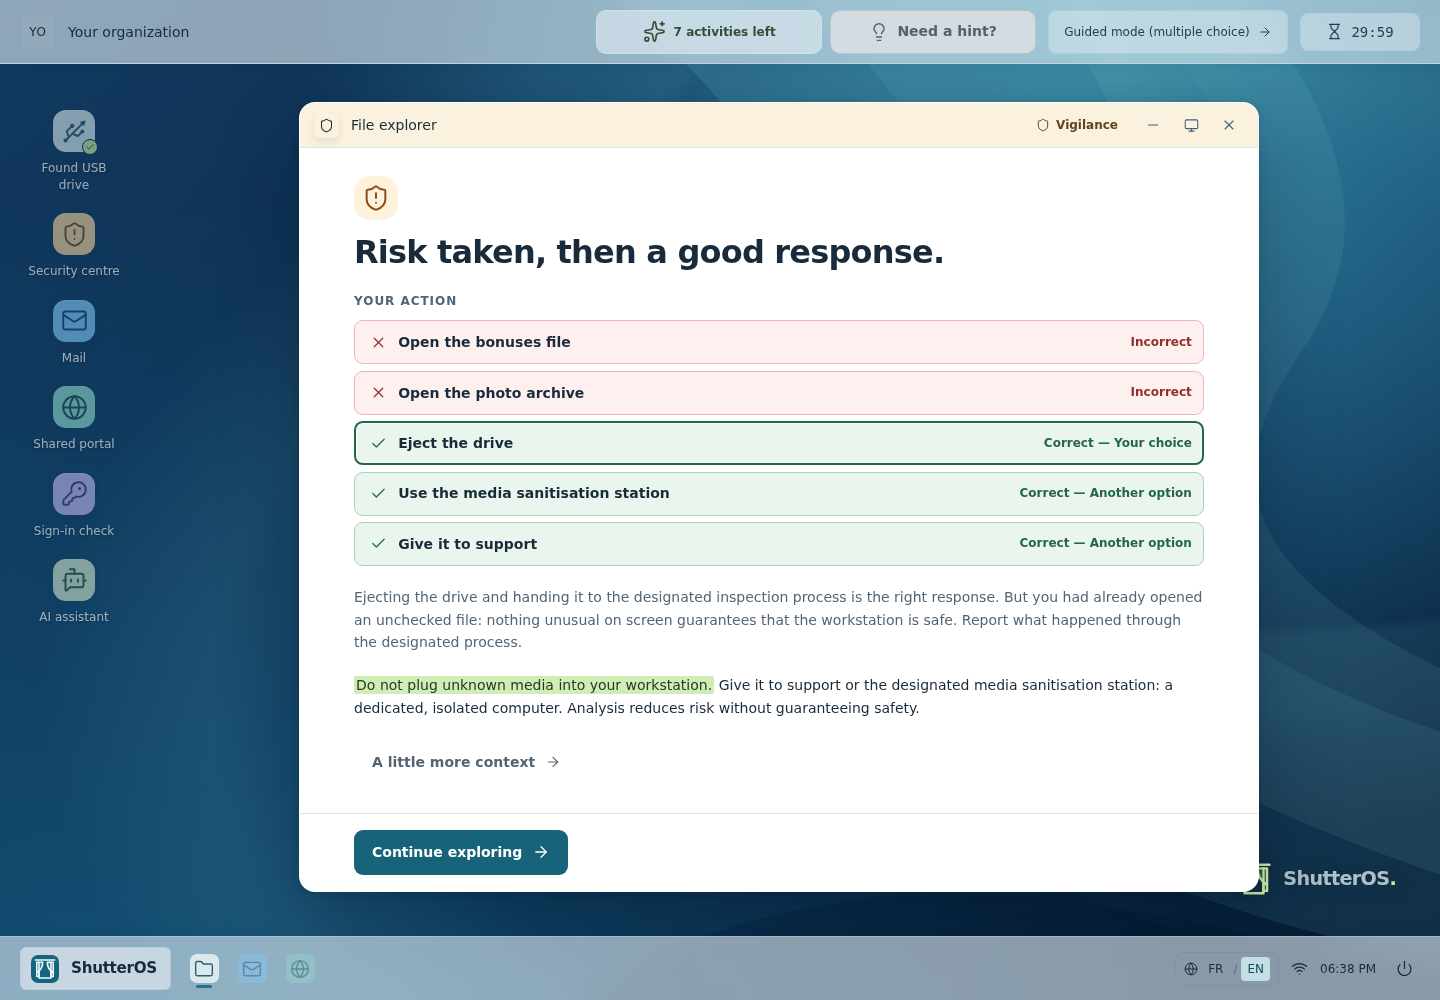
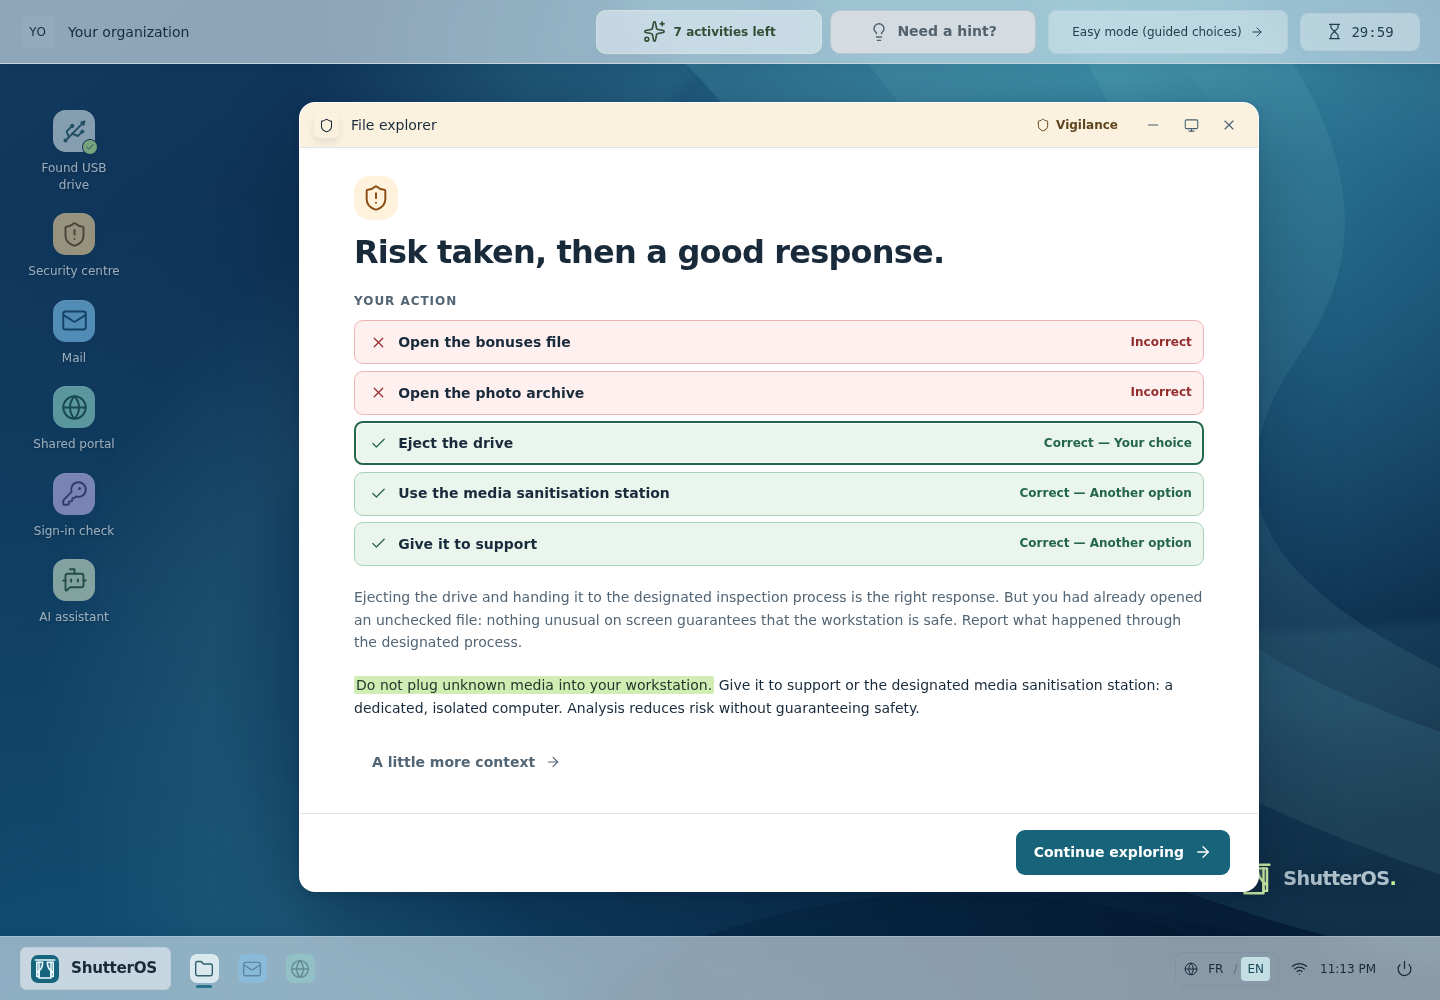
feat(onboarding): default to easy mode and clarify the challenge option

Changed region(s): [[0.2188, 0.806, 0.4062, 0.899], [0.6875, 0.806, 0.875, 0.899], [0.75, 0.031, 0.8125, 0.062]]

diff --git a/packages/core/src/data/fr.ts b/packages/core/src/data/fr.ts
@@ -6,14 +6,14 @@ export const fr = {
     title: 'Une journée de travail. Des choix qui comptent.',
     description: (name: string) =>
       `Vous incarnez ${name}, agente dans un service public. La journée commence : des messages à traiter, une réunion à préparer… et une clé USB retrouvée près du bureau. Au fil des demandes et des imprévus, à vous de décider à quoi faire confiance, quand demander de l’aide et comment protéger votre poste et les informations du service.`,
-    choose: 'Choisir un parcours',
+    choose: 'Choisissez votre niveau de départ',
     guided: {
-      title: 'Parcours en douceur',
-      description: 'Avancez avec des QCM présentés dans un ordre simple.',
-      detail: 'Le jeu vous conduit d’une activité à la suivante.',
+      title: 'Mode facile',
+      description: 'Pour débuter en douceur, avec des choix guidés (QCM).',
+      detail: 'Le jeu vous guide d’une activité à la suivante.',
     },
     free: {
-      title: 'Petit défi',
+      title: 'Mode défi',
       description: 'Explorez librement le bureau, agissez et demandez des indices.',
       detail: 'À vous de repérer les situations.',
     },
@@ -29,7 +29,7 @@ export const fr = {
     controls: {
       title: 'La barre de jeu, en haut de l’écran',
       introduction:
-        'Elle reste accessible pendant tout le parcours. Passez du mode libre au mode guidé à tout moment, sans perdre votre progression.',
+        'Elle reste accessible pendant tout le parcours. Changez de mode à tout moment, sans perdre votre progression.',
       progress: 'Progression',
       waiting: 'En attente',
       items: [
@@ -46,8 +46,8 @@ export const fr = {
     },
   },
   experience: {
-    free: 'Mode libre (exploration)',
-    guided: 'Mode guidé (QCM)',
+    free: 'Mode défi (exploration)',
+    guided: 'Mode facile (choix guidés)',
     freeHint: 'Choisissez vous-même les activités. Votre progression est conservée.',
     next: 'Passer à l’activité suivante',
     finishHint:
@@ -183,7 +183,7 @@ export const fr = {
     nextPlayer: 'Passer au joueur suivant',
     guide: 'Un coup de pouce',
     close: 'Fermer',
-    finish: 'Mode guidé (QCM)',
+    finish: 'Mode facile (choix guidés)',
     resume: 'Retour au bureau',
     connected: 'Réseau connecté',
     isolated: 'Réseau isolé',
@@ -604,7 +604,7 @@ export const fr = {
       habits: (count: number, total: number) => `Gestes du quotidien : ${count}/${total}`,
       hints: (count: number, total: number) => `Indices d’activité consultés : ${count}/${total}`,
       journey: 'Parcours suivi',
-      modes: { guided: 'Guidé', free: 'Libre', mixed: 'Mixte' },
+      modes: { guided: 'Mode facile', free: 'Mode défi', mixed: 'Modes facile et défi' },
       badges: 'Repères de votre parcours',
       activityBadge: 'Situations mises en pratique',
       reportBadge: (count: number, total: number) =>

diff --git a/packages/core/src/data/en.ts b/packages/core/src/data/en.ts
@@ -8,14 +8,14 @@ export const en: Catalog = {
     title: 'A day at work. Choices that matter.',
     description: (name: string) =>
       `You play as ${name}, a public-sector employee. The day is starting: messages to answer, a meeting to prepare… and a USB drive found near your desk. As requests and surprises come your way, decide what to trust, when to ask for help and how to protect your workstation and your organisation’s information.`,
-    choose: 'Choose a journey',
+    choose: 'Choose your starting level',
     guided: {
-      title: 'Gentle walkthrough',
-      description: 'Move through a clear sequence of multiple-choice situations.',
-      detail: 'The game takes you from one activity to the next.',
+      title: 'Easy mode',
+      description: 'Start gently, with multiple-choice questions.',
+      detail: 'The game guides you from one activity to the next.',
     },
     free: {
-      title: 'Small challenge',
+      title: 'Challenge mode',
       description: 'Explore the desktop freely, take action and ask for hints.',
       detail: 'It is up to you to spot the situations.',
     },
@@ -31,7 +31,7 @@ export const en: Catalog = {
     controls: {
       title: 'Your game bar, at the top of the screen',
       introduction:
-        'It stays with you throughout the journey. Switch between free exploration and guided mode at any time, keeping your progress.',
+        'It stays with you throughout the journey. Switch modes at any time without losing your progress.',
       progress: 'Progress',
       waiting: 'Waiting',
       items: [
@@ -48,8 +48,8 @@ export const en: Catalog = {
     },
   },
   experience: {
-    free: 'Free mode (exploration)',
-    guided: 'Guided mode (multiple choice)',
+    free: 'Challenge mode (exploration)',
+    guided: 'Easy mode (guided choices)',
     freeHint: 'Choose activities yourself. Your progress is kept.',
     next: 'Go to the next activity',
     finishHint:
@@ -181,7 +181,7 @@ export const en: Catalog = {
     nextPlayer: 'Next player',
     guide: 'A hint',
     close: 'Close',
-    finish: 'Guided mode (multiple choice)',
+    finish: 'Easy mode (guided choices)',
     resume: 'Back to the desk',
     connected: 'Network connected',
     isolated: 'Network isolated',
@@ -602,7 +602,7 @@ export const en: Catalog = {
       habits: (count: number, total: number) => `Everyday habits: ${count}/${total}`,
       hints: (count: number, total: number) => `Activity hints viewed: ${count}/${total}`,
       journey: 'Journey followed',
-      modes: { guided: 'Guided', free: 'Free exploration', mixed: 'Mixed' },
+      modes: { guided: 'Easy mode', free: 'Challenge mode', mixed: 'Easy and Challenge modes' },
       badges: 'Your journey markers',
       activityBadge: 'Situations practised',
       reportBadge: (count: number, total: number) =>

diff --git a/tests/e2e/onboarding.spec.ts b/tests/e2e/onboarding.spec.ts
@@ -20,7 +20,9 @@ for (const locale of ['fr', 'en'] as const) {
       await page.clock.install();
       await page.goto(delivery === 'file' ? `${portable}?lang=${locale}` : `./?lang=${locale}`);
       await expect(page.getByRole('heading', { name: copy.welcome.title })).toBeVisible();
-      await expect(page.getByRole('radio', { name: copy.welcome.free.title })).toBeChecked();
+      await expect(page.getByRole('radio').nth(0)).toHaveAttribute('value', 'guided');
+      await expect(page.getByRole('radio').nth(1)).toHaveAttribute('value', 'free');
+      await expect(page.getByRole('radio', { name: copy.welcome.guided.title })).toBeChecked();
       await expect(page.locator('.os-topbar')).toBeVisible();
       await expect(page.locator('.welcome-hero')).toBeVisible();
       expect(
@@ -37,7 +39,6 @@ for (const locale of ['fr', 'en'] as const) {
           path: `test-results/previews/welcome-${locale}.png`,
           fullPage: true,
         });
-      await page.getByRole('radio', { name: copy.welcome.guided.title }).click();
       await page.getByRole('button', { name: copy.welcome.begin, exact: true }).click();
       await expect(page.getByRole('group', { name: copy.login.guidedQuestion })).toBeVisible();
       await expect(

diff --git a/packages/core/tests/onboarding.test.ts b/packages/core/tests/onboarding.test.ts
@@ -58,7 +58,7 @@ describe('play mode onboarding', () => {
       generation: 0,
       now: 9_000_000,
       reason: 'initial',
-      mode: 'free',
+      mode: 'guided',
     });
     expect(apply(welcome, { type: 'login', password: 'Bureau2026' }, 9_000_001)).toMatchObject({
       phase: 'welcome',
@@ -264,21 +264,21 @@ describe('play mode onboarding', () => {
     });
   });
 
-  it('returns to a clean free welcome on logout and expiry', () => {
+  it('returns to a clean guided welcome on logout and expiry', () => {
     const active = session('free', 100);
     expect(apply(active, { type: 'logout' }, 200)).toEqual({
       phase: 'welcome',
       generation: 1,
       now: 200,
       reason: 'logout',
-      mode: 'free',
+      mode: 'guided',
     });
     expect(apply(active, { type: 'tick' }, 1_800_100)).toEqual({
       phase: 'welcome',
       generation: 1,
       now: 1_800_100,
       reason: 'expired',
-      mode: 'free',
+      mode: 'guided',
     });
   });
 });

diff --git a/tests/site/site.spec.ts b/tests/site/site.spec.ts
@@ -139,7 +139,7 @@ test('API and Storybook artifacts load as runnable pages', async ({ request, pag
   await page.goto('storybook/iframe.html?id=game-scenes--welcome&viewMode=story');
   await expect(page.getByRole('heading', { name: fr.welcome.title })).toBeVisible();
   await expect(page.locator('.welcome-hero')).toBeVisible();
-  await expect(page.getByRole('radio', { name: fr.welcome.free.title })).toBeChecked();
+  await expect(page.getByRole('radio', { name: fr.welcome.guided.title })).toBeChecked();
   await expect(page.getByRole('button', { name: fr.welcome.begin, exact: true })).toBeVisible();
   await page.goto('storybook/iframe.html?id=game-scenes--guided-login&viewMode=story');
   await expect(page.getByRole('group', { name: fr.login.guidedQuestion })).toBeVisible();

diff --git a/packages/components/src/screens/Welcome.svelte b/packages/components/src/screens/Welcome.svelte
@@ -60,13 +60,12 @@
       <p class="text-muted mt-4 max-w-[650px] text-base leading-relaxed">
         {copy.welcome.description(config.playerName)}
       </p>
-
       <div
         class="mt-5 grid gap-3 sm:grid-cols-2"
         role="radiogroup"
         aria-label={copy.welcome.choose}
       >
-        {#each ['free', 'guided'] as const as mode (mode)}
+        {#each ['guided', 'free'] as const as mode (mode)}
           <label class="mode-card text-left" class:selected={snapshot.mode === mode}>
             <input
               class="mode-selection"

diff --git a/stories/scenarios.ts b/stories/scenarios.ts
@@ -31,7 +31,12 @@ export const guidedIntro = transition(
   0,
   config,
 );
-export const login = transition(welcome, { type: 'begin' }, 0, config);
+export const login = transition(
+  transition(welcome, { type: 'set-mode', mode: 'free' }, 0, config),
+  { type: 'begin' },
+  0,
+  config,
+);
 function play(intents: Intent[]): GameState {
   return intents.reduce((snapshot, intent) => transition(snapshot, intent, 0, config), login);
 }

diff --git a/tests/e2e/helpers.ts b/tests/e2e/helpers.ts
@@ -6,7 +6,7 @@ export async function beginFree(page: Page, locale: 'fr' | 'en' = 'fr') {
   const copy = locale === 'fr' ? fr : en;
   const freeMode = page.getByRole('radio', { name: copy.welcome.free.title });
   await expect(freeMode).toBeVisible();
-  await expect(freeMode).toBeChecked();
+  await freeMode.check();
   await page.getByRole('button', { name: copy.welcome.begin, exact: true }).click();
 }
 

diff --git a/packages/core/tests/game.test.ts b/packages/core/tests/game.test.ts
@@ -90,7 +90,7 @@ describe('contextual guidance', () => {
       { type: 'logout' },
       5,
     );
-    expect(loggedOut).toMatchObject({ phase: 'welcome', generation: 1, mode: 'free' });
+    expect(loggedOut).toMatchObject({ phase: 'welcome', generation: 1, mode: 'guided' });
   });
 
   it('pauses the login timer while hidden', () => {

diff --git a/packages/core/src/runtime/game.ts b/packages/core/src/runtime/game.ts
@@ -30,7 +30,7 @@ export function initialState(now = 0): GameState {
     generation: 0,
     now: finiteTime(now, 0),
     reason: 'initial',
-    mode: 'free',
+    mode: 'guided',
   };
 }
 
@@ -642,7 +642,7 @@ function welcomeState(
     generation,
     now,
     reason,
-    mode: 'free',
+    mode: 'guided',
   };
 }
 

diff --git a/docs/user-guide.fr.md b/docs/user-guide.fr.md
@@ -6,10 +6,12 @@ Vous incarnez Camille Martin sur un poste fictif : une clé USB trouvée, des me
 
 L’[écran d’accueil](images/welcome.fr.png) présente la **barre de jeu**, visible pendant tout le parcours, et propose deux modes :
 
-- **Mode libre (exploration)**, proposé par défaut : relevez le défi en explorant les applications et en trouvant les commandes pour agir. À la connexion, retrouvez le mot de passe fictif ; un indice aide après trois essais ratés ou deux minutes de recherche.
-- **Mode guidé (QCM)** : avancez en douceur, une situation après l’autre, avec les choix affichés. La connexion commence par une question sur le rangement d’un mot de passe, puis une explication de chaque option.
+- **Mode facile**, proposé par défaut : avancez une situation après l’autre, avec les choix affichés. La connexion commence par une question sur le rangement d’un mot de passe, puis une explication de chaque option.
+- **Mode défi (exploration libre)** : explorez les applications et trouvez les commandes pour agir. À la connexion, retrouvez le mot de passe fictif ; un indice aide après trois essais ratés ou deux minutes de recherche.
 
-Vous pouvez changer de mode à tout moment sans perdre votre progression. Utiliser le post-it pour entrer dans la simulation n’est pas une faute : il illustre un secret mal protégé. Le gestionnaire cité dans les explications est celui configuré pour l’exercice, KeePassXC par défaut.
+Choisissez le niveau qui vous convient à l’accueil. Vous pouvez changer de mode à tout moment sans perdre votre progression.
+
+Utiliser le post-it pour entrer dans la simulation n’est pas une faute : il illustre un secret mal protégé. Le gestionnaire cité dans les explications est celui configuré pour l’exercice, KeePassXC par défaut.
 
 Les fenêtres **Vigilance** invitent à examiner une situation ; celles portant **Protéger mon poste** proposent des gestes de sécurisation. Les libellés accompagnent les couleurs : le jeu ne demande pas de deviner la fonction d’une fenêtre.
 
@@ -17,11 +19,11 @@ Les fenêtres **Vigilance** invitent à examiner une situation ; celles portant 
 
 La barre de jeu affiche les activités restantes, **Un indice ?**, le changement de mode et le temps disponible. Les commandes sans effet à l’étape courante sont désactivées. Depuis le bureau, le compteur permet de rejoindre la prochaine activité sans révéler son indice.
 
-Un indice donne une piste, parfois un repère visuel. Vous pouvez le masquer puis le relire. En mode libre, cherchez comment agir dans les applications : le QCM ne s’ouvre jamais automatiquement. Passez en mode guidé pour afficher les choix, sans perdre votre place ; revenir au libre les masque. L’indice reste indépendant du mode et se propose aussi après deux minutes sans progression. Aucun chrono local ne presse votre réponse.
+Un indice donne une piste, parfois un repère visuel. Vous pouvez le masquer puis le relire. En mode défi, cherchez comment agir dans les applications : le QCM ne s’ouvre jamais automatiquement. Passez en mode facile pour afficher les choix, sans perdre votre place ; revenir au mode défi les masque. L’indice reste indépendant du mode et se propose aussi après deux minutes sans progression. Aucun chrono local ne presse votre réponse.
 
-Le parcours comprend sept scénarios et une activité en trois étapes : mot de passe, mises à jour et verrouillage. En mode guidé, une consigne indique le prochain geste à effectuer et les boutons à utiliser. Ces trois gestes doivent être essayés avant le bilan ; la question complémentaire sur le mot de passe est facultative. Dans la messagerie, continuer après un premier courriel conduit à celui qui reste.
+Le parcours comprend sept scénarios et une activité en trois étapes : mot de passe, mises à jour et verrouillage. En mode facile, une consigne indique le prochain geste à effectuer et les boutons à utiliser. Ces trois gestes doivent être essayés avant le bilan ; la question complémentaire sur le mot de passe est facultative. Dans la messagerie, continuer après un premier courriel conduit à celui qui reste.
 
-Dans l’assistant IA, le [mode libre propose un chat simulé](images/ai-free.fr.png) : choisissez l’outil, relisez la charte et préparez le message avant de l’envoyer. Le [mode guidé présente directement les cinq messages sous forme de QCM](images/ai-guided.fr.png). Le changement de mode conserve votre sélection.
+Dans l’assistant IA, le [mode défi propose un chat simulé](images/ai-free.fr.png) : choisissez l’outil, relisez la charte et préparez le message avant de l’envoyer. Le [mode facile présente directement les cinq messages sous forme de QCM](images/ai-guided.fr.png). Le changement de mode conserve votre sélection.
 
 ## Lire son bilan
 
@@ -35,7 +37,7 @@ Le sablier démarre après l’exercice de connexion et laisse trente minutes pa
 
 - **Langue** : FR ou EN dès l’accueil, puis dans la barre des tâches.
 - **Fenêtres** : déplacez-les par leur titre, redimensionnez les fenêtres principales par leurs bords, réduisez-les puis retrouvez-les dans la barre des tâches. Les indices et le fichier texte sont des fenêtres indépendantes.
-- **Taille** : les nouvelles activités s’ouvrent agrandies en guidé et en taille normale en libre. Vous pouvez les restaurer ; passer en mode guidé peut élargir la fenêtre courante pour accueillir les choix, sans la maximiser.
+- **Taille** : les nouvelles activités s’ouvrent agrandies en mode facile et en taille normale en mode défi. Vous pouvez les restaurer ; passer en mode facile peut élargir la fenêtre courante pour accueillir les choix, sans la maximiser.
 - **Clavier** : Tab passe d’une commande à l’autre ; Entrée ou Espace active les boutons. Le mot de passe fictif est masqué ; le bouton œil permet de le vérifier.
 - **Déconnexion** : une confirmation évite d’effacer la progression par erreur. Le raccourci opérateur `Ctrl+Alt+Home` réinitialise immédiatement le jeu.
 

diff --git a/docs/user-guide.md b/docs/user-guide.md
@@ -6,10 +6,12 @@ You play Camille Martin at a fictional workstation: a found USB drive, messages 
 
 The [welcome screen](images/welcome.png) introduces the **game bar**, visible throughout the journey, and offers two routes:
 
-- **Free mode (exploration)**, selected by default: take on the challenge by exploring applications and finding the controls to act. At login, find the fictional password; a hint helps after three failed attempts or two minutes of searching.
-- **Guided mode (Q&A)**: take it gently, one situation at a time, with choices displayed. Login starts with a question about where to keep a password, followed by an explanation of each option.
+- **Easy mode**, selected by default: move through one situation at a time, with choices displayed. Login starts with a question about where to keep a password, followed by an explanation of each option.
+- **Challenge mode (free exploration)**: explore applications and find the controls to act. At login, find the fictional password; a hint helps after three failed attempts or two minutes of searching.
 
-Switch routes at any time without losing progress. Using the sticky note to enter the simulation is not a player mistake: it illustrates a poorly protected secret. Explanations name the manager configured for the exercise, KeePassXC by default.
+Choose the level that suits you at the welcome screen. You can switch modes at any time without losing your progress.
+
+Using the sticky note to enter the simulation is not a player mistake: it illustrates a poorly protected secret. Explanations name the manager configured for the exercise, KeePassXC by default.
 
 Windows labelled **Vigilance** ask you to examine a situation; **Protect my workstation** windows offer protective actions. Labels accompany the colours so you do not need to guess a window’s purpose.
 
@@ -17,11 +19,11 @@ Windows labelled **Vigilance** ask you to examine a situation; **Protect my work
 
 The game bar shows remaining activities, **Need a hint?**, the route switch and time available. Controls that do not apply to the current step are disabled. From the desktop, the activity counter can take you to the next activity without revealing its hint.
 
-A hint offers a question to consider and sometimes a visual cue. Hide it and read it again as needed. In free mode, find how to act inside the applications: the questionnaire never opens automatically. Switch to guided mode to display choices without losing your place; switching back hides them. Hints remain independent of the route and are also offered after two minutes without progress. No local countdown rushes your answer.
+A hint offers a question to consider and sometimes a visual cue. Hide it and read it again as needed. In Challenge mode, find how to act inside the applications: the questionnaire never opens automatically. Switch to Easy mode to display choices without losing your place; switching back hides them. Hints remain independent of the route and are also offered after two minutes without progress. No local countdown rushes your answer.
 
-The journey includes seven scenarios and one activity with three steps: passwords, updates and locking. Guided mode identifies the next step and the controls to use. Try all three before the recap; the extra password question is optional. In the mailbox, continuing after the first email opens the remaining one.
+The journey includes seven scenarios and one activity with three steps: passwords, updates and locking. Easy mode identifies the next step and the controls to use. Try all three before the recap; the extra password question is optional. In the mailbox, continuing after the first email opens the remaining one.
 
-In the AI assistant, free mode offers a simulated chat: choose the tool, read the policy and prepare the message before sending. Guided mode presents the five messages as a questionnaire. Switching modes keeps your selection.
+In the AI assistant, Challenge mode offers a simulated chat: choose the tool, read the policy and prepare the message before sending. Easy mode presents the five messages as a questionnaire. Switching modes keeps your selection.
 
 ## Reading your recap
 
@@ -35,7 +37,7 @@ The hourglass starts after the login exercise and allows thirty minutes by defau
 
 - **Language**: choose FR or EN at welcome, then on the taskbar.
 - **Windows**: drag their title bars, resize main windows by their edges, minimise them and find them again on the taskbar. Hints and the USB text file have independent windows.
-- **Size**: new activities open maximised in guided mode and at normal size in free exploration. Restore them if preferred; switching to guided mode can widen the current window to accommodate choices without maximising it.
+- **Size**: new activities open maximised in Easy mode and at normal size in Challenge mode. Restore them if preferred; switching to Easy mode can widen the current window to accommodate choices without maximising it.
 - **Keyboard**: Tab moves between controls; Enter or Space activates buttons. The fictional password is masked; the eye button reveals it.
 - **Sign out**: confirmation prevents accidental resets. The operator shortcut `Ctrl+Alt+Home` resets the game immediately.
 
